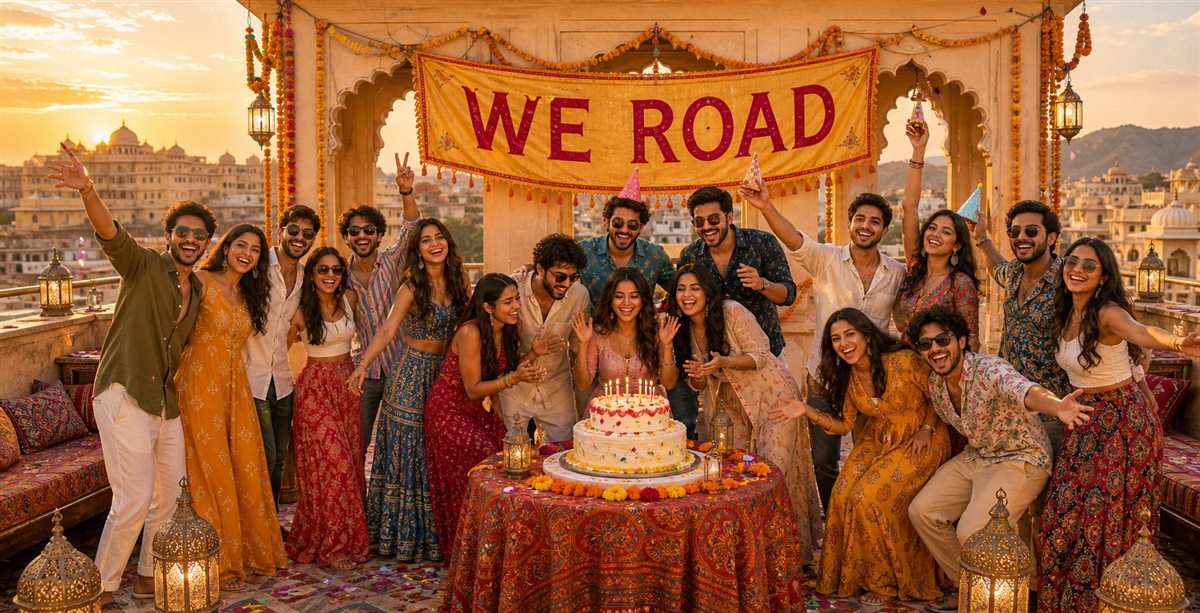
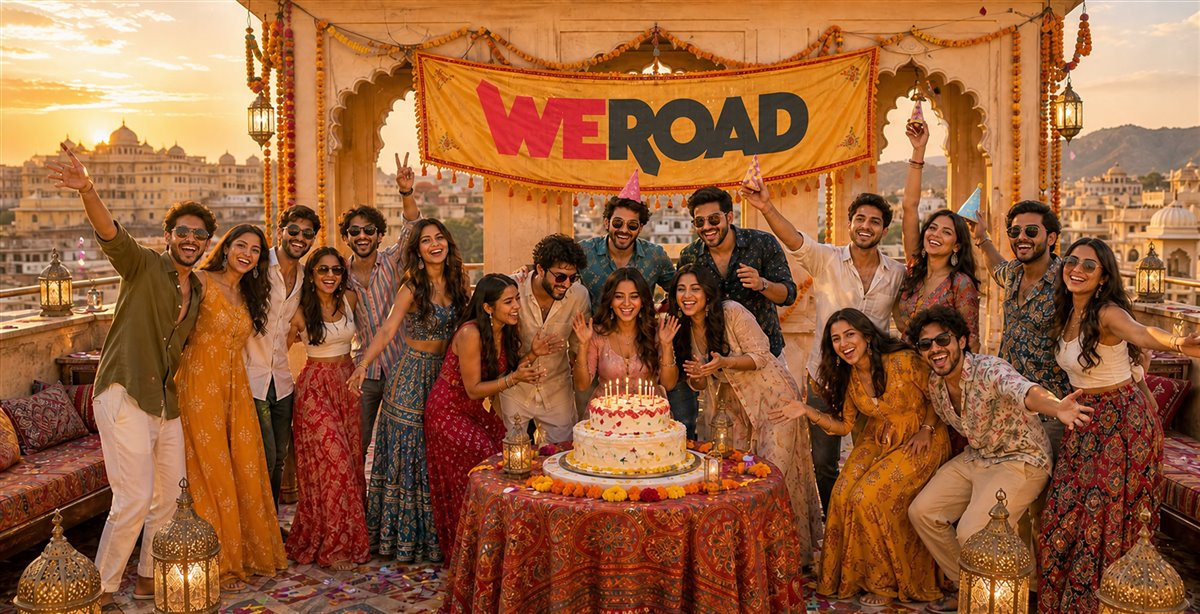
Refine WEROAD visuals and anchor Ganges boat

diff --git a/src/main.jsx b/src/main.jsx
@@ -39,7 +39,7 @@ import {
 import { validateMediaSelection } from "./mediaValidation.js";
 import pdfWorkerUrl from "pdfjs-dist/legacy/build/pdf.worker.min.mjs?url";
 
-const VERSION = "1.38.4",
+const VERSION = "1.38.5",
   API = "/api";
 const deviceName = () => {
   const userAgent = navigator.userAgent || "";
@@ -1055,7 +1055,7 @@ function TripMap({ selectedDay, currentDayIndex, onSelect, onReady }) {
         ["✈", "Volo interno DEL–UDR", "air", midpointLngLat(places["Aeroporto DEL"], places["Aeroporto UDR"]), [0, -28], "DEL–UDR"],
         ["🚐", "Spostamenti su strada Udaipur–Jodhpur", "road", [roadReference[1], roadReference[0]], [30, 26], "Udaipur–Jodhpur"],
         ["🚆", "Treno notturno Agra–Varanasi", "rail", midpointLngLat(places["Agra Cantt"], places["Varanasi Junction"]), [20, -22], "Agra–Varanasi"],
-        ["⛵", "Barca sul Gange a Varanasi", "boat", [places.Varanasi[1], places.Varanasi[0]], [30, -18], "Varanasi"],
+        ["⛵", "Barca sul Gange a Varanasi", "boat", [83.009, 25.305], [34, 22], "Varanasi"],
         ["👣", "Visite a piedi a Jodhpur", "walk", [places.Jodhpur[1], places.Jodhpur[0]], [-8, -25], "Jodhpur"],
       ].forEach(([symbol, label, mode, coordinates, offset, reference]) => {
         const node = document.createElement("span");

diff --git a/src/styles.css b/src/styles.css
@@ -407,7 +407,7 @@ html.travelerDirectoryOpen body {
   z-index: 4;
   right: 14px;
   bottom: 13px;
-  width: 82px;
+  width: 70px;
   height: auto;
   display: block;
   padding: 4px 6px;
@@ -4849,7 +4849,7 @@ mark.mention {
   box-shadow: 0 5px 14px #7b3d2617;
 }
 .birthdayPartyVisual { position: relative; background: #e9a34d; }
-.birthdayPartyScene { width: 100%; height: auto; display: block; aspect-ratio: 16 / 9; object-fit: contain; }
+.birthdayPartyScene { width: 100%; height: auto; display: block; aspect-ratio: 2 / 1; object-fit: contain; }
 .birthdayRibbonCopy {
   display: grid;
   grid-template-columns: auto minmax(0, 1fr) auto;

diff --git a/public/sw.js b/public/sw.js
@@ -1,4 +1,4 @@
-const CACHE = "india-insieme-v1.38.4";
+const CACHE = "india-insieme-v1.38.5";
 const PRECACHE = [
   "./",
   "./manifest.webmanifest",
